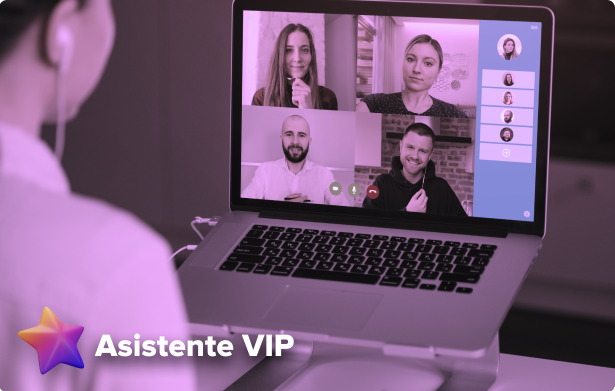
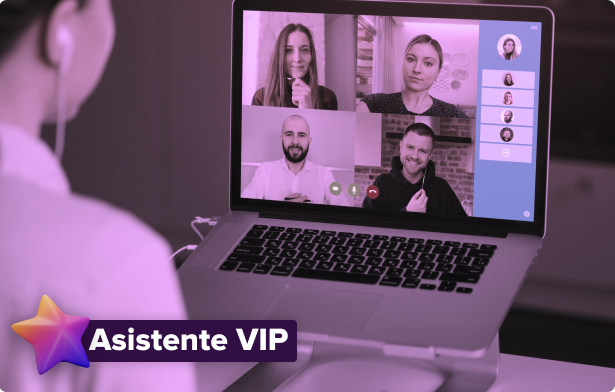
fix(dt-home): visual details

diff --git a/src/1.0.0/css/components/speakers-vip.css b/src/1.0.0/css/components/speakers-vip.css
@@ -361,8 +361,15 @@ div.emms__calendar__vip__card__title{
 }
 
 .emms__calendar__vip .emms__calendar__list .emms__calendar__list__item__card__label p{
-    background: #550871;
+    font-size: 14px;
+    line-height: 1;
+    text-align: right;
     color: #fff;
+    background: #550871;
+    width: 70%;
+    box-sizing: border-box;
+    text-transform: uppercase;
+    padding: 7px 16px 6px 16px;
 }
 
 

diff --git a/index.php b/index.php
@@ -273,25 +273,25 @@ require_once('././src/components/cacheSettings.php');
         <div class="emms__separator mb"></div>
 
         <!-- Event numbers -->
-        <section class="emms__eventnumbers" id="boxNumber">
+        <section class="emms__eventnumbers emms__eventnumbers--large" id="boxNumberLarge">
             <div class="emms__container--lg">
-                <h2 class="emms__fade-in">El EMMS en números</h2>
+                <h2 class="emms__fade-in">EMMS a lo largo del tiempo</h2>
                 <ul class="emms__fade-in">
                     <li>
-                        <p class="number" id="count1">250.000</p>
-                        <span>Inscriptos</span>
+                        <p class="number" id="count1L">265</p>
+                        <span>REGISTRADOS</span>
                     </li>
                     <li>
-                        <p class="number" id="count2">15</p>
-                        <span>Ediciones</span>
+                        <p class="number" id="count4L">190</p>
+                        <span>Speakers</span>
                     </li>
                     <li>
-                        <p class="number" id="count3">10</p>
+                        <p class="number" id="count3L">10</p>
                         <span>Países</span>
                     </li>
                     <li>
-                        <p class="number" id="count4">150</p>
-                        <span>Speakers</span>
+                        <p class="number" id="count2L">15</p>
+                        <span>Años</span>
                     </li>
                 </ul>
             </div>

diff --git a/registrado.php b/registrado.php
@@ -554,25 +554,25 @@ require_once('././src/components/cacheSettings.php');
         <div class="emms__separator mb"></div>
 
         <!-- Event numbers -->
-        <section class="emms__eventnumbers" id="boxNumber">
+        <section class="emms__eventnumbers emms__eventnumbers--large" id="boxNumberLarge">
             <div class="emms__container--lg">
-                <h2 class="emms__fade-in">El EMMS en números</h2>
+                <h2 class="emms__fade-in">EMMS a lo largo del tiempo</h2>
                 <ul class="emms__fade-in">
                     <li>
-                        <p class="number" id="count1">250.000</p>
-                        <span>Inscritos</span>
+                        <p class="number" id="count1L">265</p>
+                        <span>REGISTRADOS</span>
                     </li>
                     <li>
-                        <p class="number" id="count2">15</p>
-                        <span>Ediciones</span>
+                        <p class="number" id="count4L">190</p>
+                        <span>Speakers</span>
                     </li>
                     <li>
-                        <p class="number" id="count3">10</p>
+                        <p class="number" id="count3L">10</p>
                         <span>Países</span>
                     </li>
                     <li>
-                        <p class="number" id="count4">150</p>
-                        <span>Speakers</span>
+                        <p class="number" id="count2L">15</p>
+                        <span>Años</span>
                     </li>
                 </ul>
             </div>
